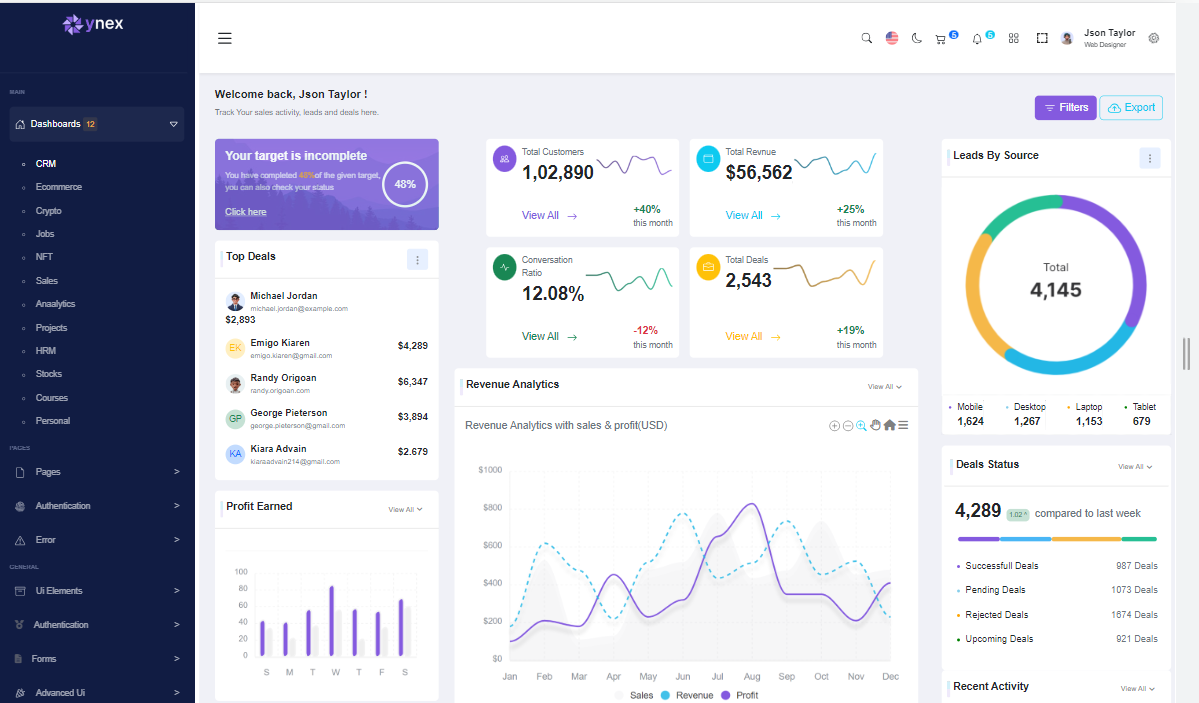
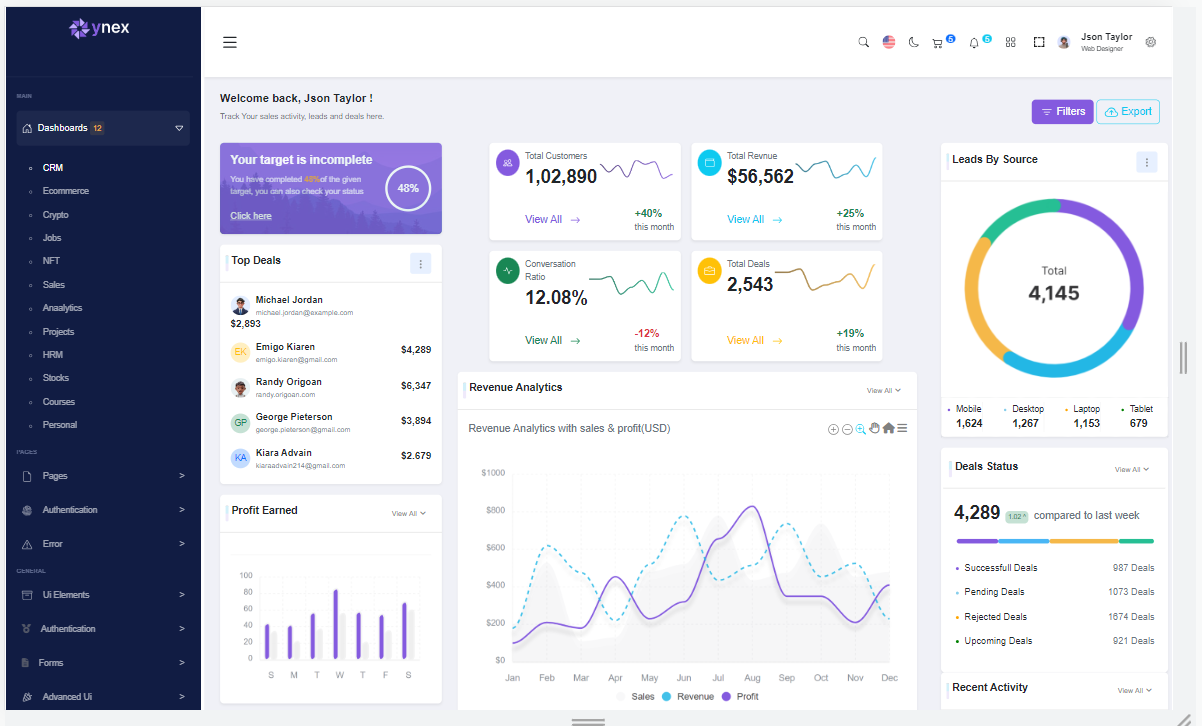
shadows-added

diff --git a/Task 2 - Bootstrap/koti-task2/index.html b/Task 2 - Bootstrap/koti-task2/index.html
@@ -265,7 +265,7 @@
           <div class="col-12 col-xl-9 p-0" >
             <div class="main-container row pt-3 pt-md-0 col-12 ps-4">
               <div class="main-first-container col-12 col-xl-4">
-                <div class="target-bg-img">
+                <div class="target-bg-img shadow-sm">
                   <div class="target-card d-flex justify-content-around align-items-center p-3">
                     <div class="target-left-card">
                       <h5 class="text-white target-head fw-semibold">Your target is incomplete</h5>
@@ -275,7 +275,7 @@
                     <div class="target-right-card text-white pe-3 ps-3 pb-2 pt-2">48%</div>
                   </div>
                 </div>
-                <div class="deals-container bg-white mt-3 pb-1 mb-3">
+                <div class="deals-container shadow-sm bg-white mt-3 pb-1 mb-3">
                   <div class="deals-top-container d-flex justify-content-between align-items-center pe-3 ps-2">
                     <div class="deal-card d-flex align-items-center">
                       <hr class="deal-hr-style me-1" />
@@ -346,7 +346,7 @@
                     </div>
                   </div>
                 </div>
-                <div class="profit-container bg-white mb-3">
+                <div class="profit-container shadow-sm bg-white mb-3">
                   <div class="deals-top-container d-flex justify-content-between align-items-center pe-3 ps-2">
                     <div class="deal-card d-flex align-items-center">
                       <hr class="deal-hr-style me-1" />
@@ -364,7 +364,7 @@
               </div>
               <div class="main-second-container col-12 col-xl-8">
               <div class="row m-0">
-                <div class="customer-card bg-white col-12 col-md-5 m-0 ms-md-5 me-md-4 me-lg-3   d-flex  mb-3 ">
+                <div class="customer-card shadow-sm bg-white col-12 col-md-5 m-0 ms-md-5 me-md-4 me-lg-3   d-flex  mb-3 ">
                   <p class="trend-logo-icon d-flex justify-content-center align-items-center rounded-circle text-white pe-2 ps-2 "><svg xmlns="http://www.w3.org/2000/svg" width="14" height="14" fill="currentColor" class="bi bi-people" viewBox="0 0 16 16">
                     <path d="M15 14s1 0 1-1-1-4-5-4-5 3-5 4 1 1 1 1h8Zm-7.978-1A.261.261 0 0 1 7 12.996c.001-.264.167-1.03.76-1.72C8.312 10.629 9.282 10 11 10c1.717 0 2.687.63 3.24 1.276.593.69.758 1.457.76 1.72l-.008.002a.274.274 0 0 1-.014.002H7.022ZM11 7a2 2 0 1 0 0-4 2 2 0 0 0 0 4Zm3-2a3 3 0 1 1-6 0 3 3 0 0 1 6 0ZM6.936 9.28a5.88 5.88 0 0 0-1.23-.247A7.35 7.35 0 0 0 5 9c-4 0-5 3-5 4 0 .667.333 1 1 1h4.216A2.238 2.238 0 0 1 5 13c0-1.01.377-2.042 1.09-2.904.243-.294.526-.569.846-.816ZM4.92 10A5.493 5.493 0 0 0 4 13H1c0-.26.164-1.03.76-1.724.545-.636 1.492-1.256 3.16-1.275ZM1.5 5.5a3 3 0 1 1 6 0 3 3 0 0 1-6 0Zm3-2a2 2 0 1 0 0 4 2 2 0 0 0 0-4Z"/>
                   </svg></p>
@@ -389,7 +389,7 @@
                     </div>
                   </div>
                 </div>
-                <div class="customer-card bg-white col-12 col-md-5 m-0 ms-md-5 ms-lg-0   d-flex  mb-3 ">
+                <div class="customer-card shadow-sm bg-white col-12 col-md-5 m-0 ms-md-5 ms-lg-0   d-flex  mb-3 ">
                   <p class="trend-logo-icon d-flex justify-content-center align-items-center rounded-circle text-white pe-2 ps-2 bg-info "><svg xmlns="http://www.w3.org/2000/svg" width="14" height="14" fill="currentColor" class="bi bi-wallet" viewBox="0 0 16 16">
                     <path d="M0 3a2 2 0 0 1 2-2h13.5a.5.5 0 0 1 0 1H15v2a1 1 0 0 1 1 1v8.5a1.5 1.5 0 0 1-1.5 1.5h-12A2.5 2.5 0 0 1 0 12.5V3zm1 1.732V12.5A1.5 1.5 0 0 0 2.5 14h12a.5.5 0 0 0 .5-.5V5H2a1.99 1.99 0 0 1-1-.268zM1 3a1 1 0 0 0 1 1h12V2H2a1 1 0 0 0-1 1z"/>
                   </svg></p>
@@ -417,7 +417,7 @@
                 
               </div>
               <div class="row m-0">
-                <div class="customer-card bg-white col-12 col-md-5 m-0 ms-md-5 me-md-4 me-lg-3 d-flex  mb-3">
+                <div class="customer-card shadow-sm bg-white col-12 col-md-5 m-0 ms-md-5 me-md-4 me-lg-3 d-flex  mb-3">
                   <p class="trend-logo-icon d-flex justify-content-center align-items-center rounded-circle text-white pe-2 ps-2 bg-success"><svg xmlns="http://www.w3.org/2000/svg" width="14" height="14" fill="currentColor" class="bi bi-activity" viewBox="0 0 16 16">
                     <path fill-rule="evenodd" d="M6 2a.5.5 0 0 1 .47.33L10 12.036l1.53-4.208A.5.5 0 0 1 12 7.5h3.5a.5.5 0 0 1 0 1h-3.15l-1.88 5.17a.5.5 0 0 1-.94 0L6 3.964 4.47 8.171A.5.5 0 0 1 4 8.5H.5a.5.5 0 0 1 0-1h3.15l1.88-5.17A.5.5 0 0 1 6 2Z"/>
                   </svg></p>
@@ -442,7 +442,7 @@
                     </div>
                   </div>
                 </div>
-                <div class="customer-card bg-white col-12 col-md-5 m-0 ms-md-5 ms-lg-0 d-flex  mb-3">
+                <div class="customer-card shadow-sm bg-white col-12 col-md-5 m-0 ms-md-5 ms-lg-0 d-flex  mb-3">
                   <p class="trend-logo-icon d-flex justify-content-center align-items-center rounded-circle text-white pe-2 ps-2 bg-warning"><svg xmlns="http://www.w3.org/2000/svg" width="16" height="16" fill="currentColor" class="bi bi-briefcase" viewBox="0 0 16 16">
                     <path d="M6.5 1A1.5 1.5 0 0 0 5 2.5V3H1.5A1.5 1.5 0 0 0 0 4.5v8A1.5 1.5 0 0 0 1.5 14h13a1.5 1.5 0 0 0 1.5-1.5v-8A1.5 1.5 0 0 0 14.5 3H11v-.5A1.5 1.5 0 0 0 9.5 1h-3zm0 1h3a.5.5 0 0 1 .5.5V3H6v-.5a.5.5 0 0 1 .5-.5zm1.886 6.914L15 7.151V12.5a.5.5 0 0 1-.5.5h-13a.5.5 0 0 1-.5-.5V7.15l6.614 1.764a1.5 1.5 0 0 0 .772 0zM1.5 4h13a.5.5 0 0 1 .5.5v1.616L8.129 7.948a.5.5 0 0 1-.258 0L1 6.116V4.5a.5.5 0 0 1 .5-.5z"/>
                   </svg></p>
@@ -469,7 +469,7 @@
                 </div>
               </div>
               <div class="col-12">
-                  <div class="bg-white revenue-container">
+                  <div class="bg-white shadow-sm revenue-container">
                     <div class="deals-top-container d-flex justify-content-between align-items-center pe-3 ps-2">
                       <div class="deal-card d-flex align-items-center">
                         <hr class="deal-hr-style me-1" />
@@ -507,7 +507,7 @@
               </div>
             </div>
             <div class="col-12 ps-3 mt-3 mb-3 mt-xl-0 mb-xl-0 pe-3">
-              <div class="statastics-container bg-white rounded">
+              <div class="statastics-container shadow-sm bg-white rounded">
                 <div class="deals-top-container d-flex justify-content-between align-items-center pe-3 ps-2">
                   <div class="deal-card d-flex align-items-center">
                     <hr class="deal-hr-style me-1" />
@@ -680,7 +680,7 @@
             </div>     
           </div>
           <div class="main-third-container col-12 col-xl-3">
-            <div class="col-12 source-container bg-white">
+            <div class="col-12 source-container bg-white shadow-sm">
               <div class="deals-top-container d-flex justify-content-between align-items-center pe-3 ps-2">
                 <div class="deal-card d-flex align-items-center">
                   <hr class="deal-hr-style me-1" />
@@ -702,7 +702,7 @@
                 <li class="tablet-success border-0">Tablet <br /> <span>679</span></li>
               </ul>
             </div>
-            <div class="status-container bg-white rounded p-1">
+            <div class="status-container bg-white rounded shadow-sm p-1">
               <div class="deals-top-container d-flex justify-content-between align-items-center pe-3 ps-2">
                 <div class="deal-card d-flex align-items-center">
                   <hr class="deal-hr-style me-1" />
@@ -742,7 +742,7 @@
                 </li>
               </ul>
             </div>
-            <div class="activity-container bg-white rounded">
+            <div class="activity-container shadow-sm bg-white rounded">
               <div class="deals-top-container d-flex justify-content-between align-items-center pe-3 ps-2">
                 <div class="deal-card d-flex align-items-center">
                   <hr class="deal-hr-style me-1" />
